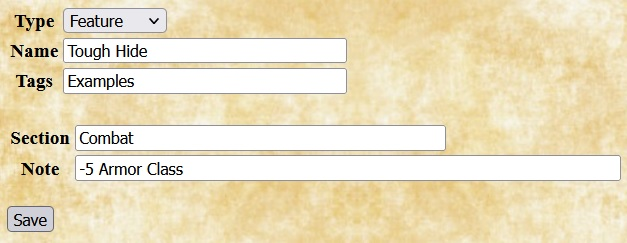
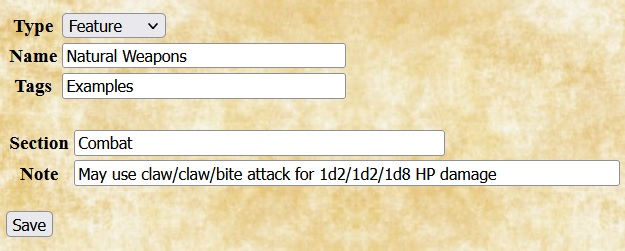
Work on homebrew doc.

diff --git a/plugins/homebrew-osric.html b/plugins/homebrew-osric.html
@@ -167,9 +167,9 @@ automatically.
 </p><p>
 The example shows an entry that allows players to choose the Lizard Man race
 from the Monsters section of the core rules for their characters. Features for
-this race are Natural Swimmer, Tough Hide, Slow, and Lizard Man Ability
-Adjustment. The corresponding feature entries for the first two of these are
-<a href="#feature">shown above</a>.
+this race are Natural Swimmer, Natural Weapons, Slow, Tough Hide, and Lizard
+Man Ability Adjustment. The corresponding feature entries for the first two of
+these are <a href="#feature">shown above</a>.
 </p>
 </td></tr>
 
@@ -216,48 +216,28 @@ There are three places that you might want to use references to character
 attributes when adding homebrew choices: prerequisites for homebrew classes
 and races; in feature notes that modify character attributes; and embedded in
 feature notes and spell descriptions. Attribute references appear somewhat
-differently in each of these contexts.
-</p><p>
-The examples below develop a homebrew feature named Alert Dodger, which gives
-the character a bonus to their armor class based on high wisdom.
-Bonus feature, this feat allows a character to add their (positive) wisdom
-modifier to their armor class. This will be a general feat that can be taken
-as a fighter bonus feat, so the initial entry for the feat looks like this:
+differently in each of these contexts. To illustrate each use, we'll expand
+the definition of the Lizard Man homebrew race shown above.
 </p>
-<img src='../Images/hb-attr-0.jpg' alt='Alert Dodger feat'/>
 
 <h2>Using attributes in prerequisites</h2>
 
 <p>
-In the core rulebook, many feats and all prestige classes have
-prerequisites&mdash;attribute values that the character must have to take the
-feat or a level in the prestige class. Quilvyn allows you to specify similar
-prerequisites when entering a homebrew class, feat, or race.
+In the OSRIC rules, each of the non-human races has minimum ability score
+requirements for player characters: dwarfs must have a strength of at least 8
+and a constitution of 12 or more; elves require a minimum dexterity of 7 and a
+score of at least 8 in constitution, intelligence, and charisma; and so on.
+We can give the Lizard Man homebrew race a similar requirement&mdash;for
+example, a minimum dexterity of 7 and constution of 10&mdash;by adding text to
+the race's Prerequisite field:
+</p>
+<img src='../Images/hbos-attr-1.jpg' alt='Lizard Man minimum attributes'/>
+
+<p>
+Given this definition, Quilvyn will generate tests for these requirements and
+will show a validation error if a Lizard Man character has a dexterity score
+of less than 7 or a constitution score of less than 10.
 </p><p>
-Since the effects of the Alert Dodger feat come from battle experience, it
-makes sense to require a minimum base attack bonus&mdash;say, 3&mdash;to take
-the feat. This is represented by adding text to the feat's Prerequisite field:
-</p>
-<img src='../Images/hb-attr-1.jpg' alt='Alert Dodger feat'/>
-
-<p>
-Quilvyn will generate tests for this requirement and will show a validation
-error if a character with a base attack bonus of 2 or less is given this feat.
-You can also specify that the character must have a specific feature as part of
-your prerequisites. For the Alert Dodger feat, it seems reasonable to require
-that the character also have the Dodge feature:
-</p>
-<img src='../Images/hb-attr-2.jpg' alt='Alert Dodger feat'/>
-
-<p>
-Finally, although a high wisdom might not be required to take this feat, it
-will make little sense to do so unless the character's wisdom is at least 12,
-giving a positive wisdom modifier. This can be specified by adding text to
-the Implies field:
-</p>
-<img src='../Images/hb-attr-3.jpg' alt='Alert Dodger feat'/>
-
-<p>
 Within prerequisites, Quilvyn recognizes the common comparison operators
 (&lt;, &lt;=, &gt;, &gt;=, ==, !=), and you can use the OR operator (||) to
 require that at least one of a set of prerequisites is satisfied:
@@ -284,85 +264,84 @@ provides a web page with
 <h2>Using features to modify character attributes</h2>
 
 <p>
-With the Alert Dodger feat definition complete, the next step is to create the
-corresponding feature, also named Alert Dodger. This will add the description
-of the feat to the character sheet and allow Quilvyn to create rules to
-implement its effects. Since the feat affects a character's armor class, its
-note will fit best in the combat section of the character sheet.
+With the Lizard Man homebrew race definition complete, the next step is to
+create corresponding homebrew features for the Lizard Man racial
+features&mdash;Natural Swimmer, Natural Weapons, Slow, Tough Hide, and Lizard
+Man Ability Adjustment. Quilvyn defines the Slow feature for us, since some of
+the core races (e.g., Halfling) also have it, so we can use it without defining
+a homebrew feature. The definitions for the Natural Swimmer and Natural Weapons
+features are <a href="#feature">shown above</a>. That leaves the Tough Hide and
+Lizard Man Ability Adjustment features to be defined here.
 </p><p>
-To illustrate how Quilvyn processes feature notes, we'll initially define the
-Alert Dodger feat to add a fixed +2 to the character's armor class, switching
-later to adding the wisdom modifier instead.
+The OSRIC rules specify that a Lizard Man has a tough and leather hide that
+gives it an armor class of 5&mdash;5 better than an unarmored human. The Tough
+Hide feature will note this improvement and adjust the displayed armor class
+appropriately. Since the feature affects the character's armor class, we'll
+place the feature note in the combat section of the character sheet:
 </p>
 
-<img src='../Images/hb-attr-feature-0.jpg' alt='Alert Dodger feature'/>
+<img src='../Images/hbos-attr-feature-1.jpg' alt='Tough Hide feature'/>
 
 <p>
-Given this definition, Quilvyn will automatically generate a rule that adds two
+Given this definition, Quilvyn will automatically generate a rule that adds -5
 to the character's armor class value, and the note will appear in italics on
 the character sheet. For readability, character attributes in feature notes
 must appear as shown above, with initial capital letters and spaces between
 words.
 </p><p>
 Single features can modify multiple attributes; in these cases, the note should
-list the individual modifications separated by slashes. This was shown above in
-the <a href="#race">race definition example</a>, where the note for the
-Lizardfolk Ability Adjustment read:
+list the individual modifications separated by slashes. For example, if Lizard
+Man characters automatically gain 2 in constitution and strength, but subtract
+2 from their intelligence, the definition of the Lizard Man Ability Adjustment
+feature might look like this:
 </p>
 
-<code>+2 Strength/+2 Constitution/-2 Intelligence</code>
+<img src='../Images/hbos-attr-feature-2.jpg' alt='Lizard Man Ability Adjustment feature'/>
 
 <p>
-Notes in the save and skill sections can modify save bonuses and skill
-modifiers by referencing the save type or skill name directly; the saves. and
-skillModifiers. prefixes are not necessary:
+Given this definition, Quilvyn will automatically generate rules to adjust
+the character's ability scores. This note will also appear in italics, showing
+that Quilvyn has made the adjustments.
+</p><p>
+As a convenience, notes in the save and skill sections can modify saving throw
+values and skill modifiers by referencing the save type or skill name directly;
+the saves. and skillModifiers. prefixes are not necessary. For example,
+features with the following two notes will automatically subtract one from the
+character's required saving throws vs. wands and add 5 and 10 to the
+character's chance of success when climbining walls and hiding in shadows:
 </p>
 
-<code>+1 Fortitude</code><br/>
-<code>+2 Ride/+2 Handle Animal</code>
+<code>-1 Wands</code><br/>
+<code>+5 Climb Walls/+10 Hide In Shadows</code>
 
 <h2>Embedding attributes in features notes and spell descriptions</h2>
 
 <p>
-Some feats, many class features, and nearly all spells have effects that vary
-based on character attributes. For example: the Spell Mastery feat allows a
-wizard to prepare a number of spells equal to their intelligence modifier
-without referring to their spellbook; an assassin's Death Attack can inflict
-paralysis for 1d6 rounds + 1 round per assassin level; and the
-<i>Acid Splash</i> spell has a range of 25' + 5' per 2 caster levels.
+Nearly all spells, as well as some class and race features, have effects that
+vary based on character attributes. For example: rangers gain a damage bonus
+against evil humanoids and giants equal to their level; dwarfs gain a +1 bonus
+to saves vs. poison for each 3.5 points of constitution; and the <i>Airy
+Water</i> spell last a number of turns equal to the caster's level.
 </p><p>
 You can embed references to character attributes in the text of feature notes
 and spell descriptions by enclosing them within the characters %{}. Using this
-ability, the note for the Spell Mastery feat looks like this:
-</p>
-
-<code>May prepare %{intelligenceModifier} spells w/out spellbook</code>
-
-<p>
+ability, the note for the ranger's Damage Bonus feature looks like this:
+</p><p>
+<code>+%{levels.Ranger} melee damage vs. evil humanoids and giantish foes</code>
+</p><p>
 When Quilvyn displays this note on the character sheet, it first replaces the
-reference to the character's intelligenceModifier attribute with its value, so
-the note might appear on the sheet as
+reference to the character's levels.Ranger attribute with its value, so the
+note might appear on the sheet as
 </p><p>
-<code>May prepare 2 spells w/out spellbook</code>
-</p><p>
-We can use this ability to replace the fixed +2 entered earlier for the effects
-of the Alert Dodger feature with an amount equal to the character's wisdom
-modifier, giving us its final definition:
-</p>
-
-<img src='../Images/hb-attr-feature-1.jpg' alt='Alert Dodger feature'/>
-
-<p>
-Given this note, Quilvyn will automatically generate a rule to add the
-character's wisdom modifier to their armor class and will display the note in
-italics.
+<code>+6 melee damage vs. evil humanoids and giantish foes</code>
 </p><p>
 Beyond simple references, Quilvyn supports performing calculations within
-embedded references. The note for the assassin's Death Attack feature looks
+embedded references. The note for the assassin's Assassination feature looks
 like this:
 </p><p>
-<code>Sneak attack after 3 rd of study causes death or paralysis for 1d6+%{levels.Assassin} rd (DC %{10 + levels.Assassin + intelligenceModifier} Fort neg)</code>
+<code>%{levels.Assassin*5+50}% - 5%/2 foe levels chance that a strike kills a surprised target</code>
 </p><p>
+TODO
 As this note shows, individual notes and descriptions can contain multiple
 embedded references, and individual references can use multiple attributes.
 </p><p>
@@ -406,7 +385,7 @@ spell for a level 7 sorcerer will read:
 
 <a name="attrlist"><h2>Common Character Attributes</h2></a>
 The table below lists the character attributes that are most likely to be
-useful in entering homebrew feats, features, classes, and races.
+useful in entering homebrew features, classes, and races.
 </p>
 
 <table style="width:100%"><tr style="text-align:left">
@@ -419,66 +398,64 @@ useful in entering homebrew feats, features, classes, and races.
 <td>
 <ul style="padding-left: 15px; margin-top: 0">
 <li>strength</li>
+<li>extraStrength</li>
 <li>constitution</li>
 <li>dexterity</li>
 <li>intelligence</li>
 <li>wisdom</li>
 <li>charisma</li>
-<li>strengthModifier</li>
-<li>constitutionModifier</li>
-<li>dexterityModifier</li>
-<li>intelligenceModifier</li>
-<li>wisdomModifier</li>
-<li>charismaModifier</li>
 </ul>
 </td><td>
 <ul style="padding-left: 15px; margin-top: 0">
 <li>alignment</li>
-<li>deity</li>
-<li>deityAlignment</li>
-<li>deityDomains</li>
-<li>deityFavoredWeapons</li>
 <li>level</li>
 <li>levels.&lt;class&gt;, e.g.,<br/>
   levels.Cleric<br/>
   levels.Fighter</li>
+<li>maximumHenchmen</i>
 <li>race</li>
 </ul>
 </td><td>
 <ul style="padding-left: 15px; margin-top: 0">
 <li>armorClass</li>
-<li>baseAttack</li>
-<li>meleeAttack</li>
-<li>rangedAttack</li>
+<li>attacksPerRound</li>
+<li>hitDice</li>
 <li>hitPoints</li>
 <li>initiative</li>
-<li>save.Fortitude</li>
-<li>save.Reflex</li>
-<li>save.Will</li>
-<li>sneakAttack</li>
+<li>save.&lt;type&gt;, e.g.,<br/>
+  save.Spell<br/>
+  save.Wand</li>
 <li>speed</li>
+<li>surviveResurrection</li>
+<li>surviveSystemShock</li>
+<li>thac0Melee</li>
+<li>thac0Ranged</li>
+<li>thac10Melee</li>
+<li>thac10Ranged</li>
 <li>turningLevel</li>
+<li>turnUndead.&lt;type&gt;, e.g.,<br/>
+  turnUndead.Fiend<br/>
+  turnUndead.Ghast</li>
 <li>weapons.&lt;name&gt;, e.g.,<br/>
   weapons.Longsword</br>
   weapons.Light Crossbow</li>
+<li>weaponProficiencyCount</li>
 </ul>
 </td><td>
 <ul style="padding-left: 15px; margin-top: 0">
 <li>casterLevel</li>
-<li>casterLevelArcane</li>
-<li>casterLevelDivine</li>
-<li>casterLevels.&lt;class&gt;, e.g.,<br/>
-  casterLevels.Cleric<br/>
-  casterLevels.Wizard</li>
-<li>spellSlots.&lt;type&gt;, e.g.,<br>
-  spellSlots.C0<br/>
-  spellSlots.W3</li>
+<li>casterLevels.&lt;type&gt;, e.g.,<br/>
+  casterLevels.C<br/>
+  casterLevels.M</li>
+<li>spellSlots.&lt;level&gt;, e.g.,<br>
+  spellSlots.C1<br/>
+  spellSlots.M3</li>
 </ul>
 </td><td>
 <ul style="padding-left: 15px; margin-top: 0">
 <li>features.&lt;name&gt;, e.g.<br/>
-  features.Dodge<br/>
-  features.Precise Shot</li>
+  features.Backstab<br/>
+  features.Bow Precision</li>
 <li>languageCount</li>
 <li>languages.&lt;name&gt;, e.g.,<br/>
   languages.Abyssal<br/>
